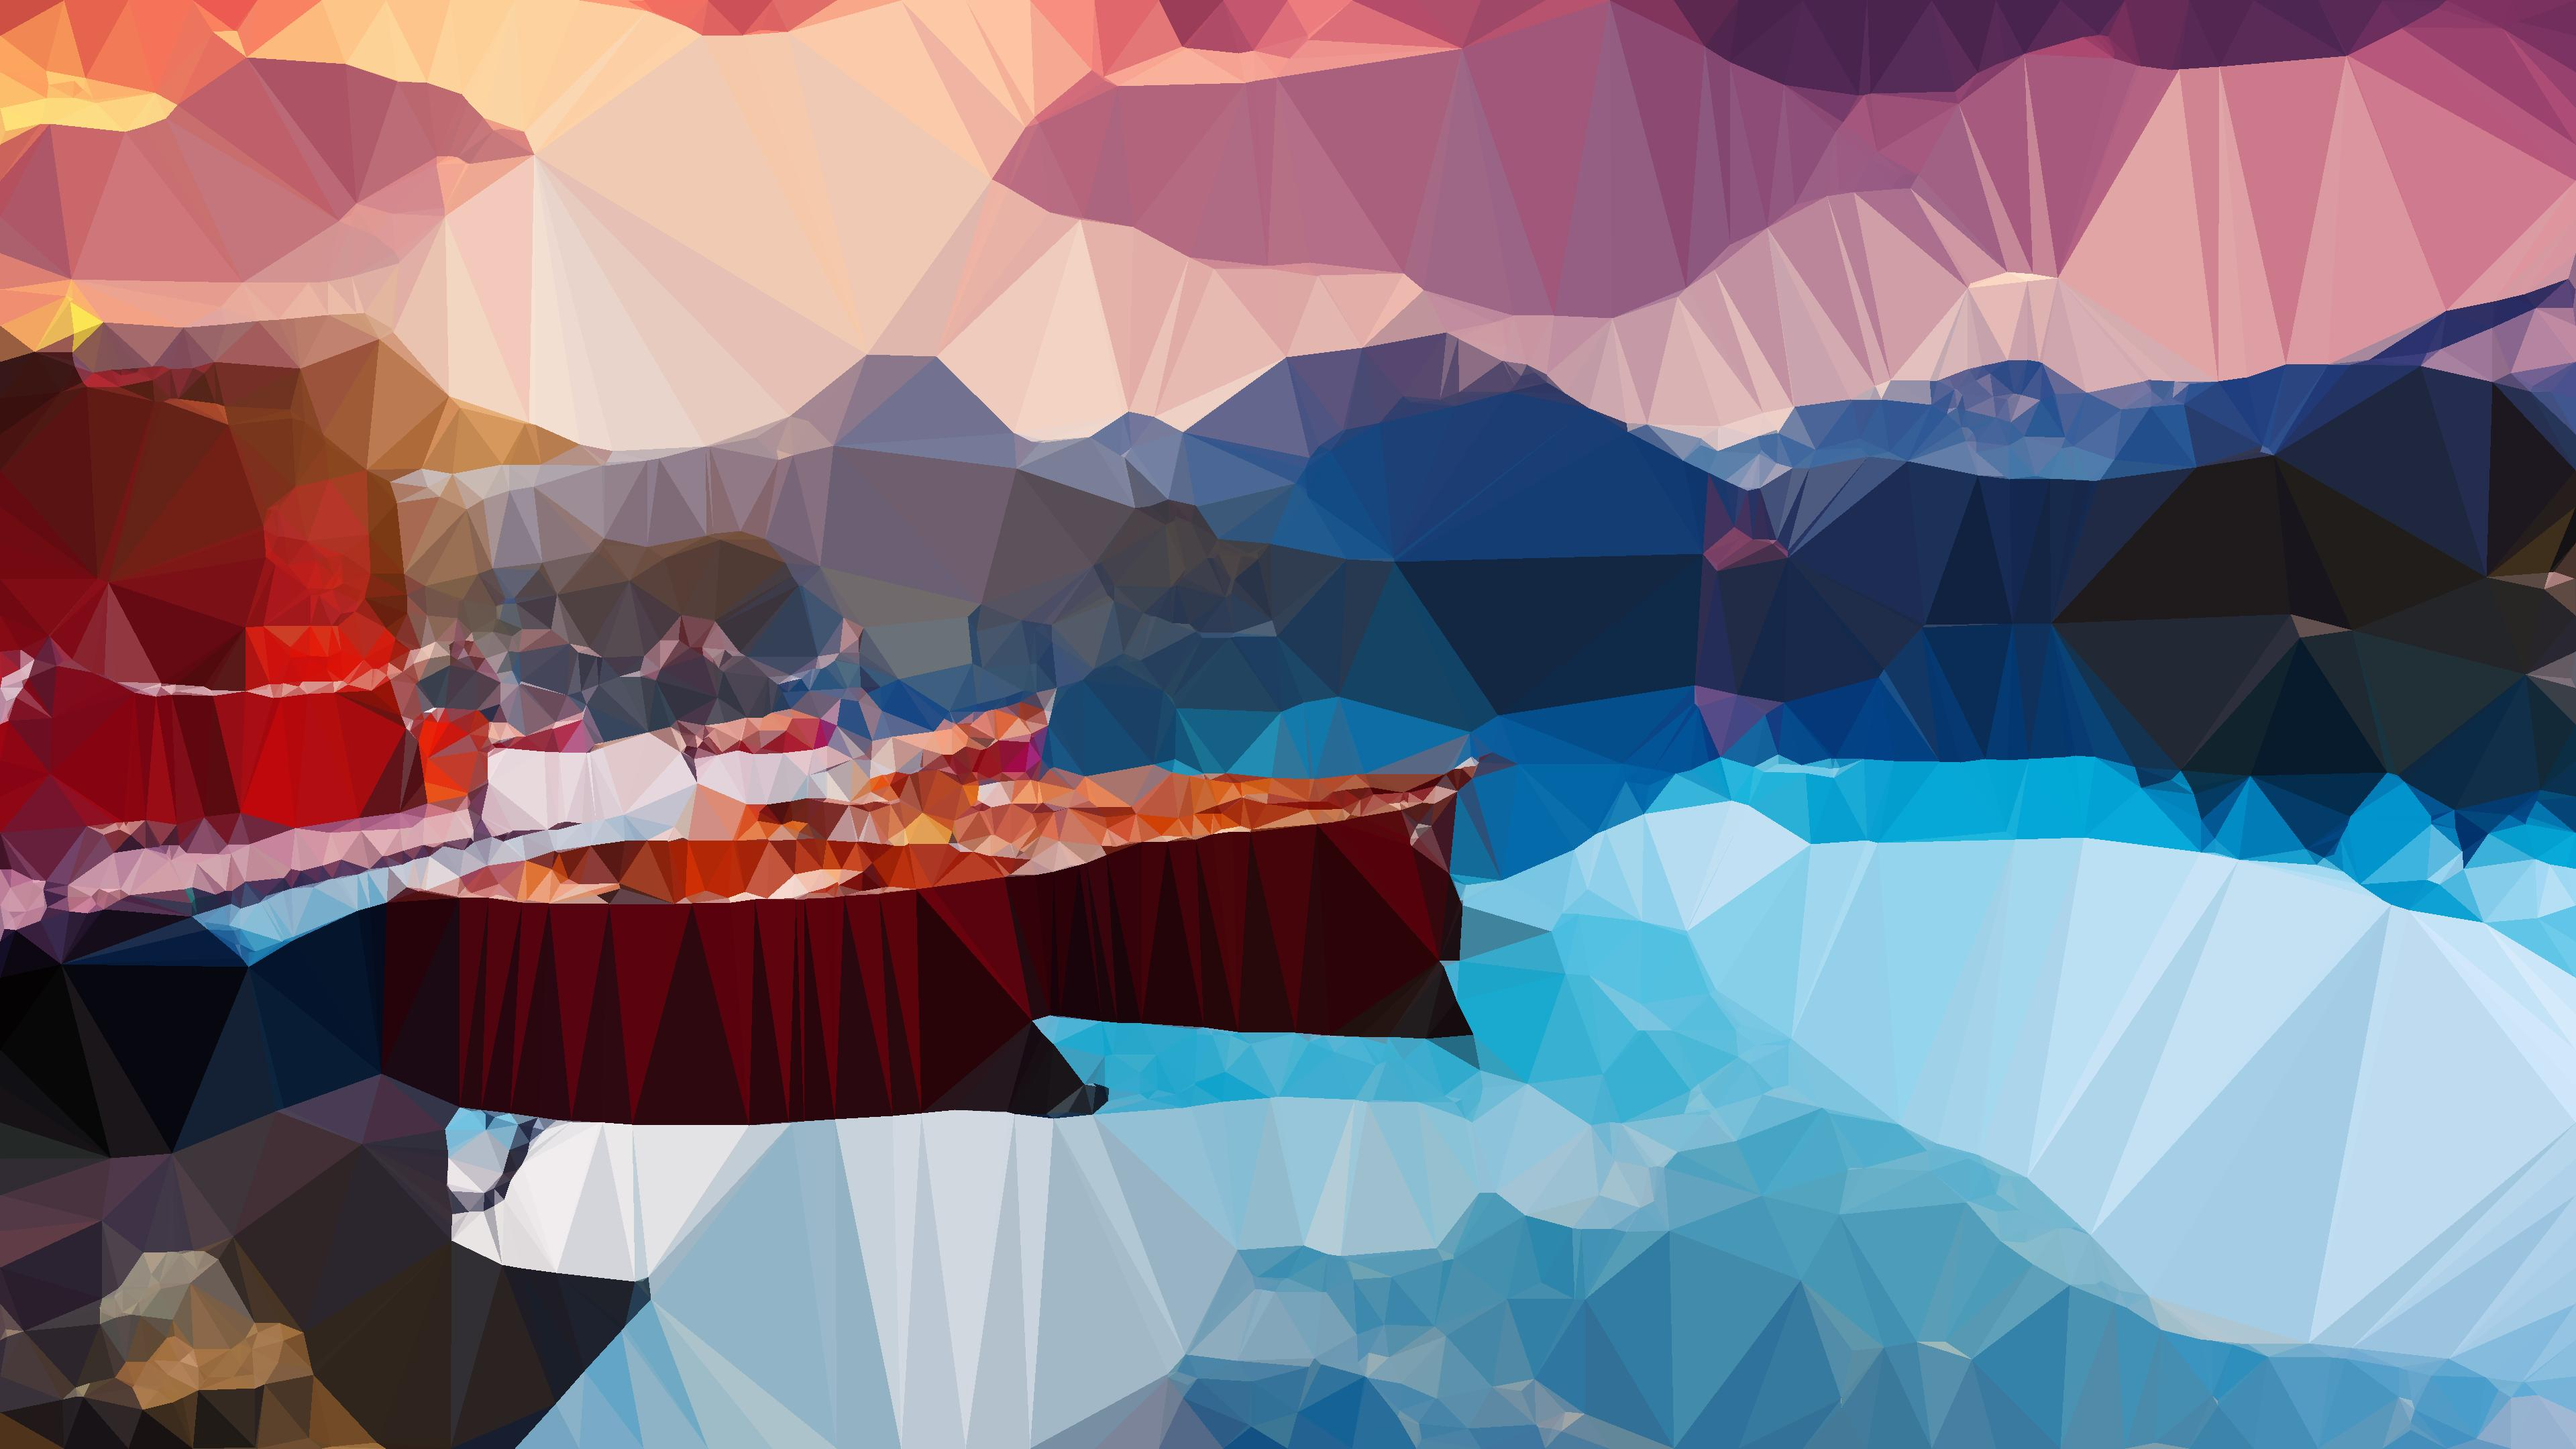
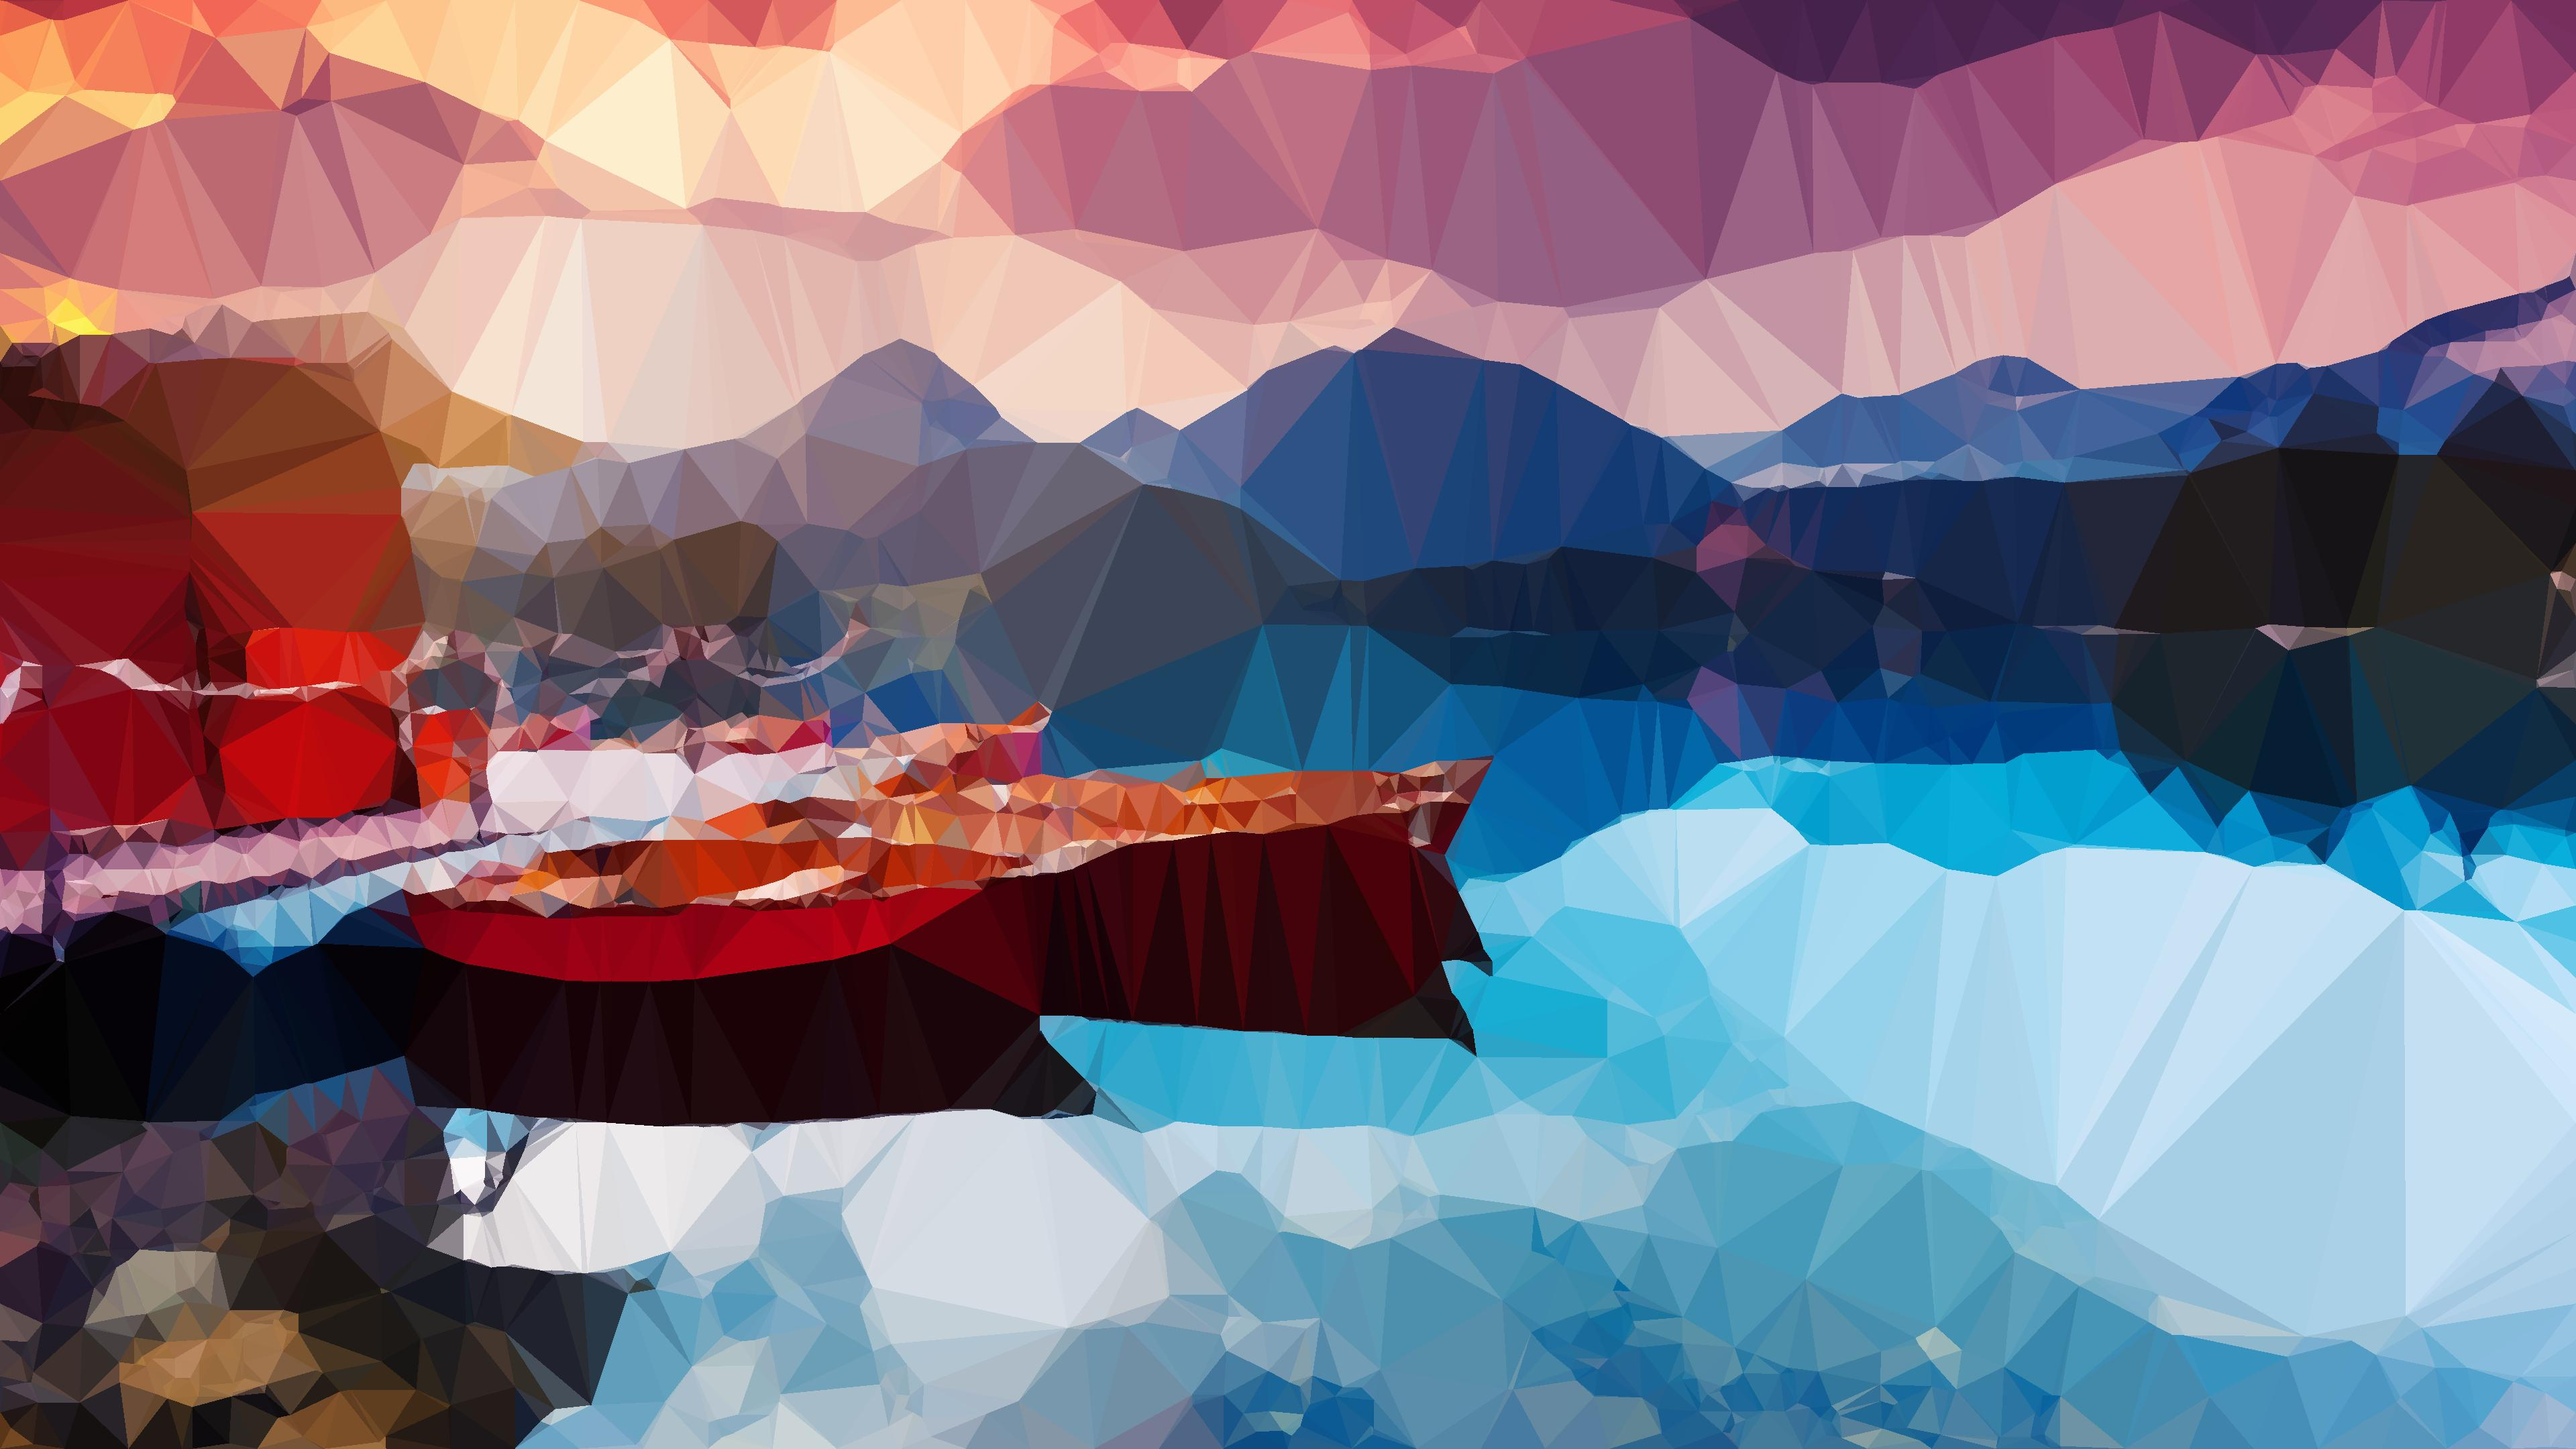
some parameter changes

diff --git a/polygonize.py b/polygonize.py
@@ -27,10 +27,12 @@ def cluster_img(img: np.ndarray, clusters: int) -> np.ndarray:
     # Weights
     COLOR_WEIGHT = 1.5
     INTENSITY_WEIGHT = 1
-    POSITION_WEIGHT = 2
+    POSITION_WEIGHT = 1.2
+
+    s = img.size/8000000
 
     # Apply Gaussian blur to image
-    img = filters.gaussian(img, sigma=3, multichannel=True)
+    img = filters.gaussian(img, sigma=s, multichannel=True)
 
     # Calculate features
     color_mean = np.mean(img)
@@ -55,11 +57,11 @@ def cluster_img(img: np.ndarray, clusters: int) -> np.ndarray:
     res_image = np.reshape(res_image, img.shape) * color_mean / COLOR_WEIGHT
 
     # # Plot to subplots
-    # f, axes = plt.subplots(1, 2)
-    # axes[0].imshow(img * color_mean)
-    # axes[1].imshow(res_image)
+    f, axes = plt.subplots(1, 2)
+    axes[0].imshow(img * color_mean)
+    axes[1].imshow(res_image)
 
-    # plt.show()
+    plt.show()
 
     return res_image
 
